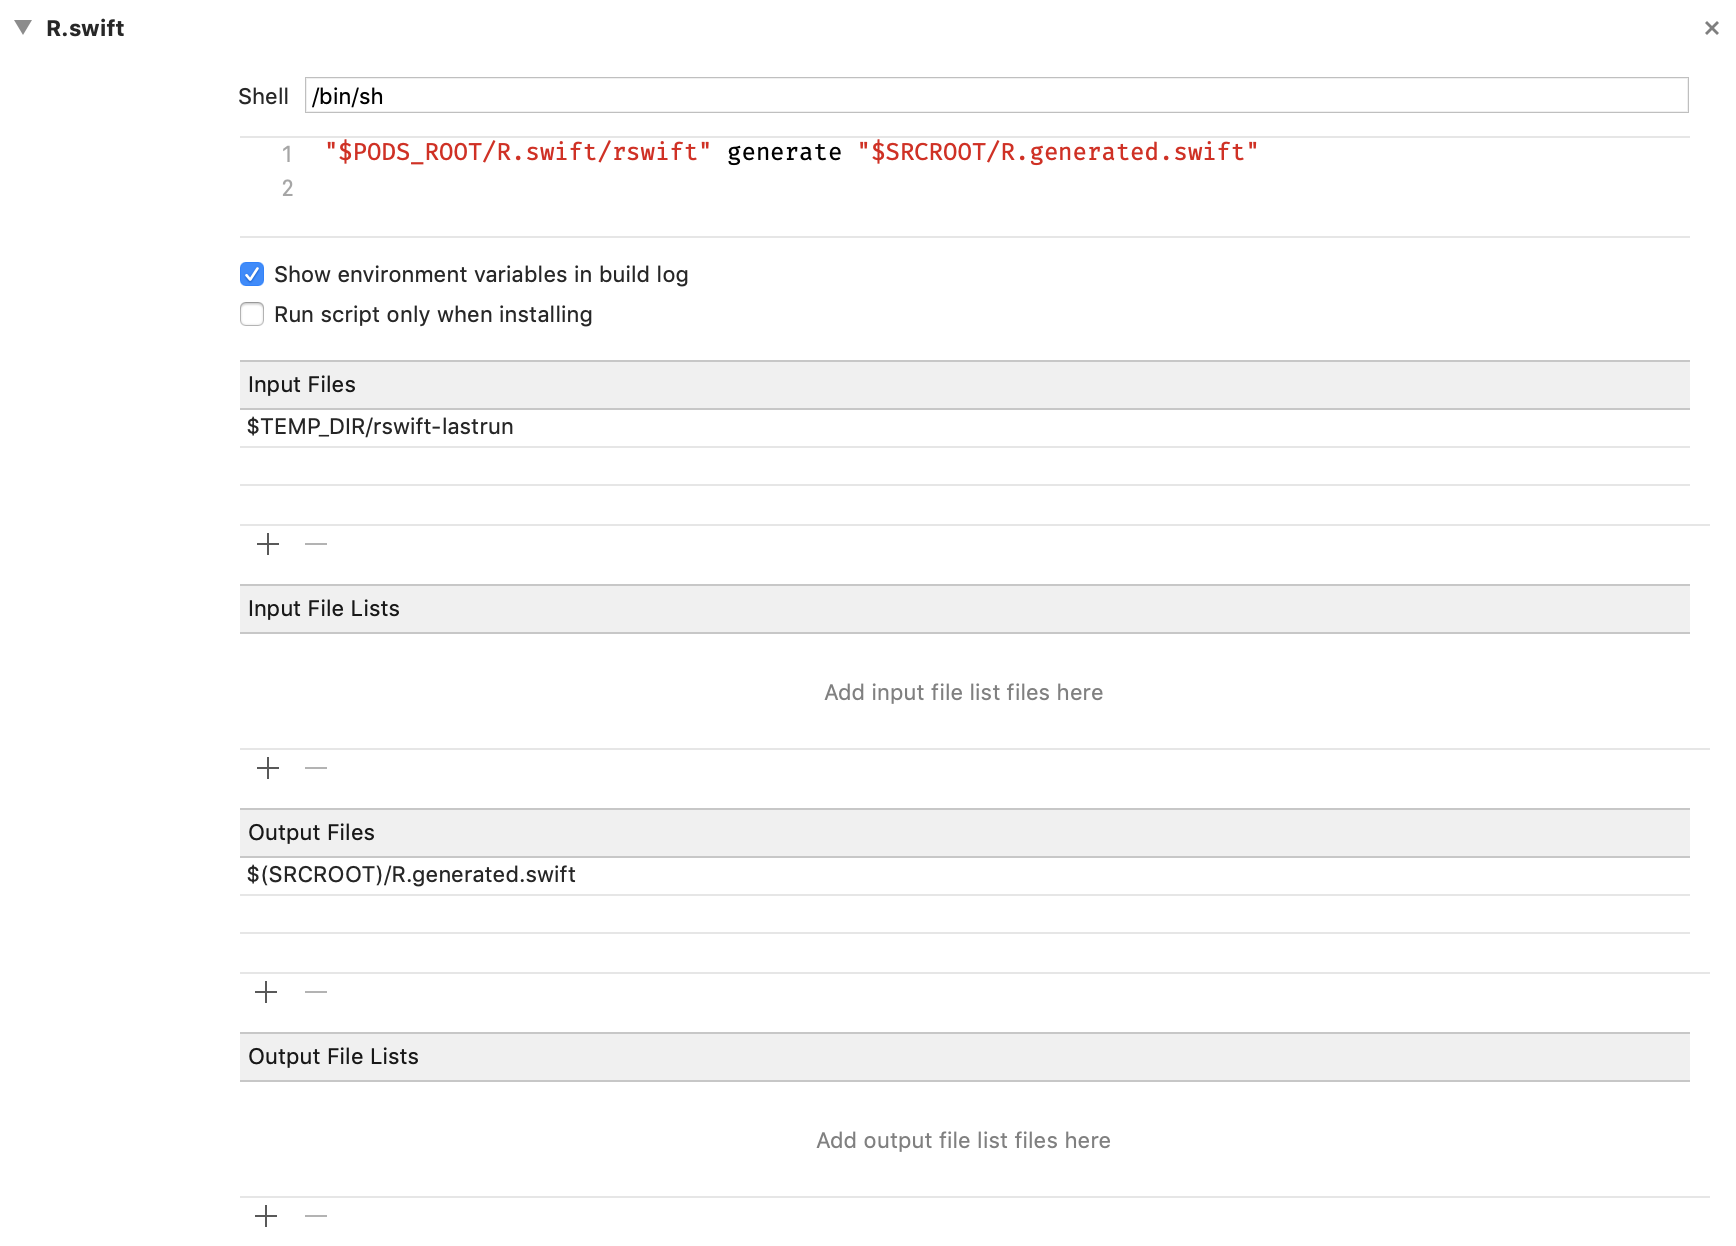
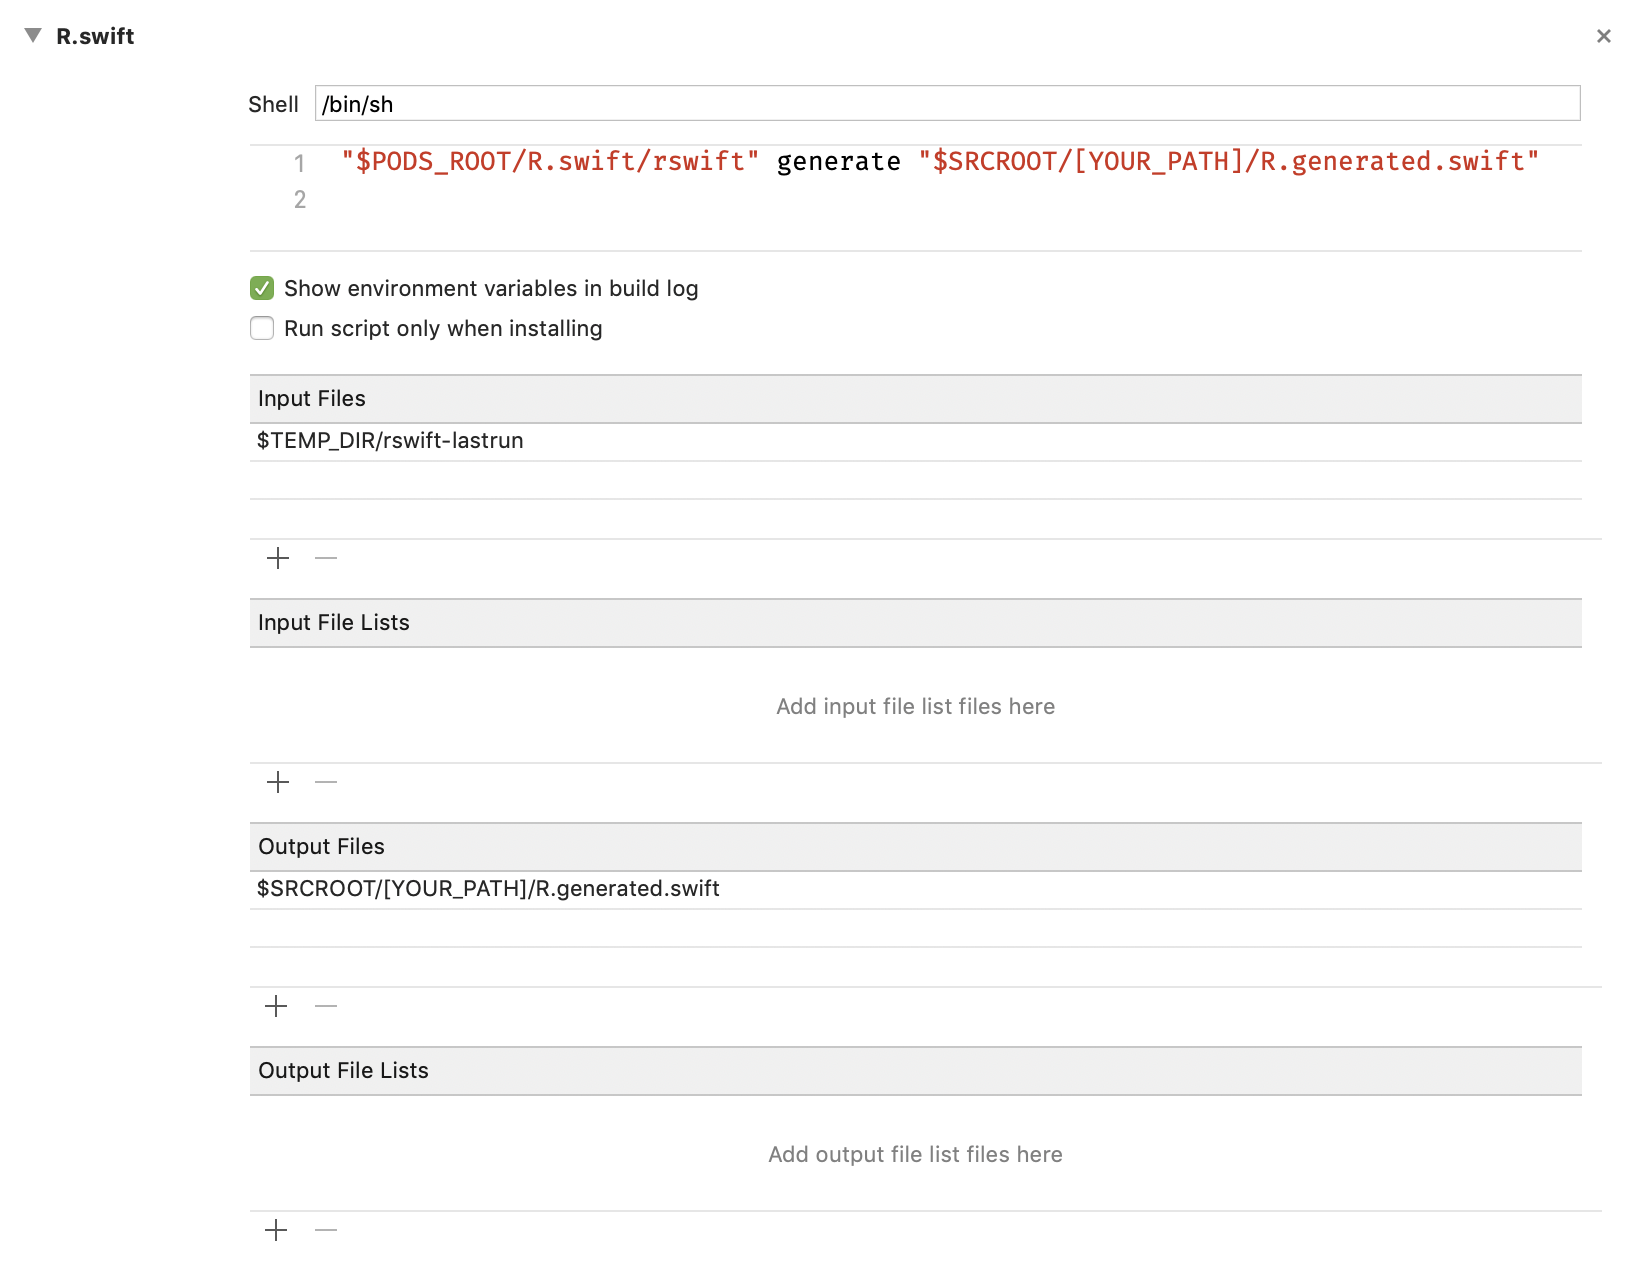
Documentation update

diff --git a/Documentation/Migration.md b/Documentation/Migration.md
@@ -5,9 +5,9 @@ Pointers for migration between major versions.
 ## Upgrading to 5.0
 
 - In the Build Phase you must perform some changes, [see an example screenshot](Images/BuildPhaseExample.png):
-  * Change the script to give the explicit output file, for example: `"$PODS_ROOT/R.swift/rswift" generate "$SRCROOT/R.generated.swift"`
+  * Change the script to give the explicit output file, for example: `"$PODS_ROOT/R.swift/rswift" generate "$SRCROOT/[YOUR_PATH]/R.generated.swift"`
   * Add `$TEMP_DIR/rswift-lastrun` to the "Input Files" of the Build Phase
-  * Add `$SRCROOT/R.generated.swift` to the "Output Files" of the Build Phase
+  * Add `$SRCROOT/[YOUR_PATH]/R.generated.swift` to the "Output Files" of the Build Phase
 - Make sure you use Xcode 10 since we've adjusted to the SDK changes
 - At the moment we are compatible with both Swift 4 and 4.2, this is more an accident then a feature, beware that we might drop Swift 4 support anytime.
 
